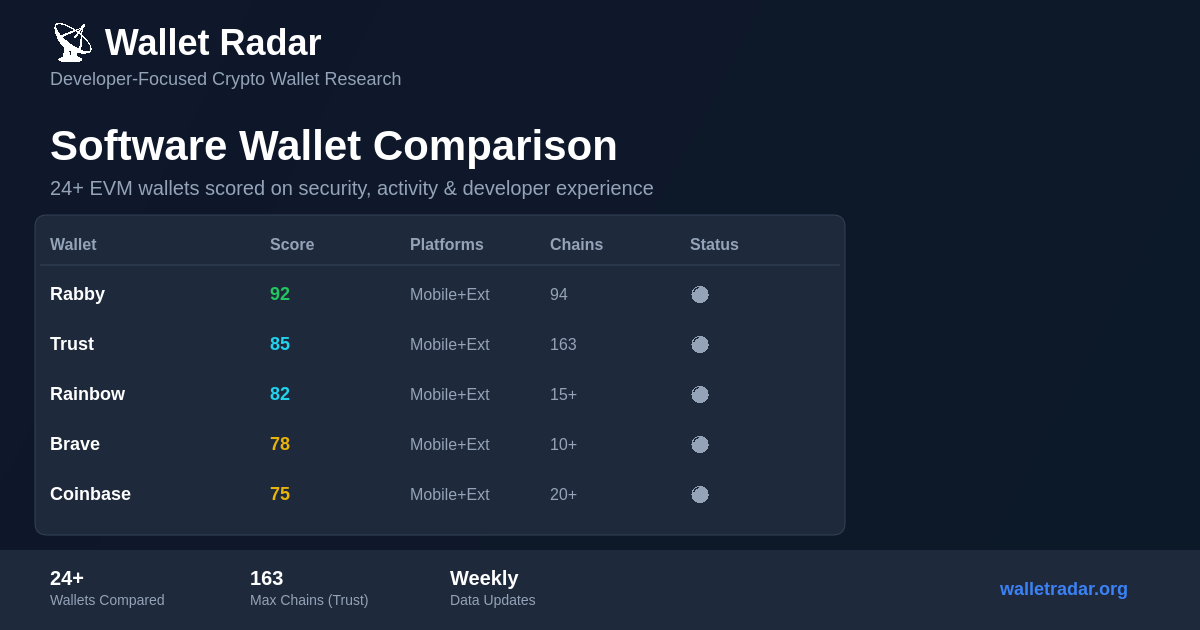
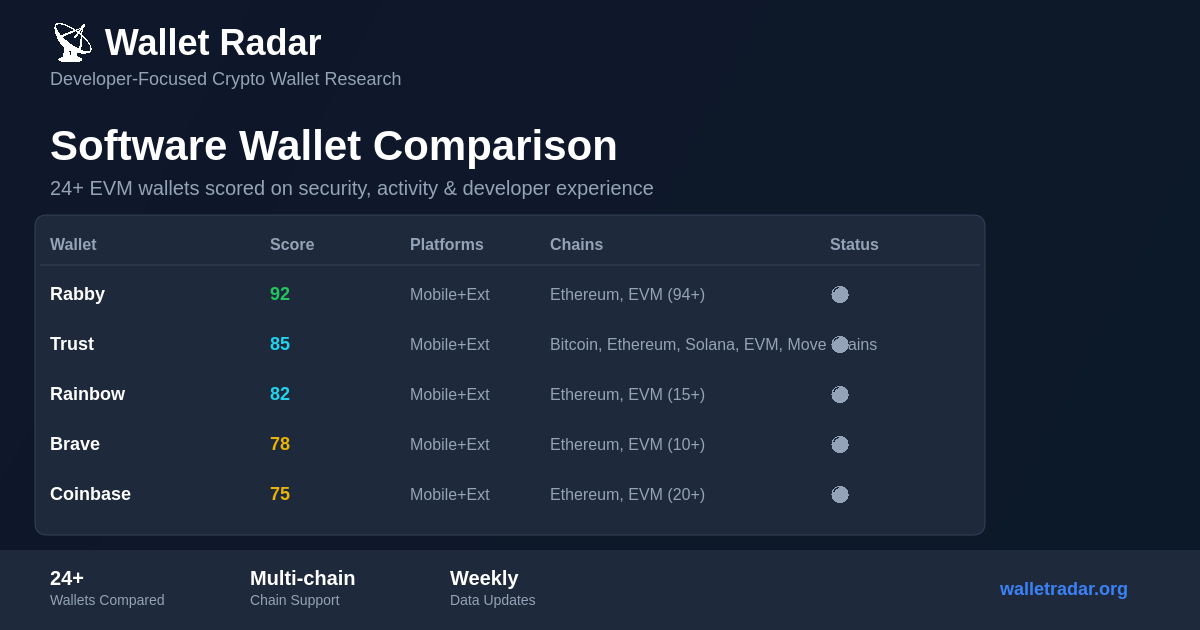
Refactor: Update wallet chain data and OG image generation

diff --git a/wallets/frontend/scripts/generate-og-images.js b/wallets/frontend/scripts/generate-og-images.js
@@ -35,12 +35,12 @@ const COLORS = {
 // Last verified: December 2025
 const WALLET_DATA = {
   software: [
-    // Data from WALLET_COMPARISON_UNIFIED_TABLE.md
-    { name: 'Rabby', score: 92, platforms: 'Mobile+Ext', chains: '94', status: '🟢' },
-    { name: 'Trust', score: 85, platforms: 'Mobile+Ext', chains: '163', status: '🟢' },
-    { name: 'Rainbow', score: 82, platforms: 'Mobile+Ext', chains: '15+', status: '🟢' },
-    { name: 'Brave', score: 78, platforms: 'Mobile+Ext', chains: '10+', status: '🟢' },
-    { name: 'Coinbase', score: 75, platforms: 'Mobile+Ext', chains: '20+', status: '🟢' },
+    // Data from WALLET_COMPARISON_UNIFIED_TABLE.md (updated with consolidated chain format)
+    { name: 'Rabby', score: 92, platforms: 'Mobile+Ext', chains: 'Ethereum, EVM (94+)', status: '🟢' },
+    { name: 'Trust', score: 85, platforms: 'Mobile+Ext', chains: 'Bitcoin, Ethereum, Solana, EVM, Move chains', status: '🟢' },
+    { name: 'Rainbow', score: 82, platforms: 'Mobile+Ext', chains: 'Ethereum, EVM (15+)', status: '🟢' },
+    { name: 'Brave', score: 78, platforms: 'Mobile+Ext', chains: 'Ethereum, EVM (10+)', status: '🟢' },
+    { name: 'Coinbase', score: 75, platforms: 'Mobile+Ext', chains: 'Ethereum, EVM (20+)', status: '🟢' },
   ],
   hardware: [
     // Data from HARDWARE_WALLET_COMPARISON_TABLE.md
@@ -101,6 +101,7 @@ function drawTable(ctx, headers, data, startY) {
   const rowHeight = 50;
   const colWidths = headers.map((_, i) => {
     if (i === 0) return 220; // Name column
+    if (headers[i] === 'Chains') return 280; // Chains column - wider for consolidated format
     return 140; // Other columns
   });
   
@@ -235,7 +236,7 @@ function generateSoftwareWalletsImage() {
   // Footer
   drawFooter(ctx, [
     { value: '24+', label: 'Wallets Compared' },
-    { value: '163', label: 'Max Chains (Trust)' },
+    { value: 'Multi-chain', label: 'Chain Support' },
     { value: 'Weekly', label: 'Data Updates' },
   ]);
   
